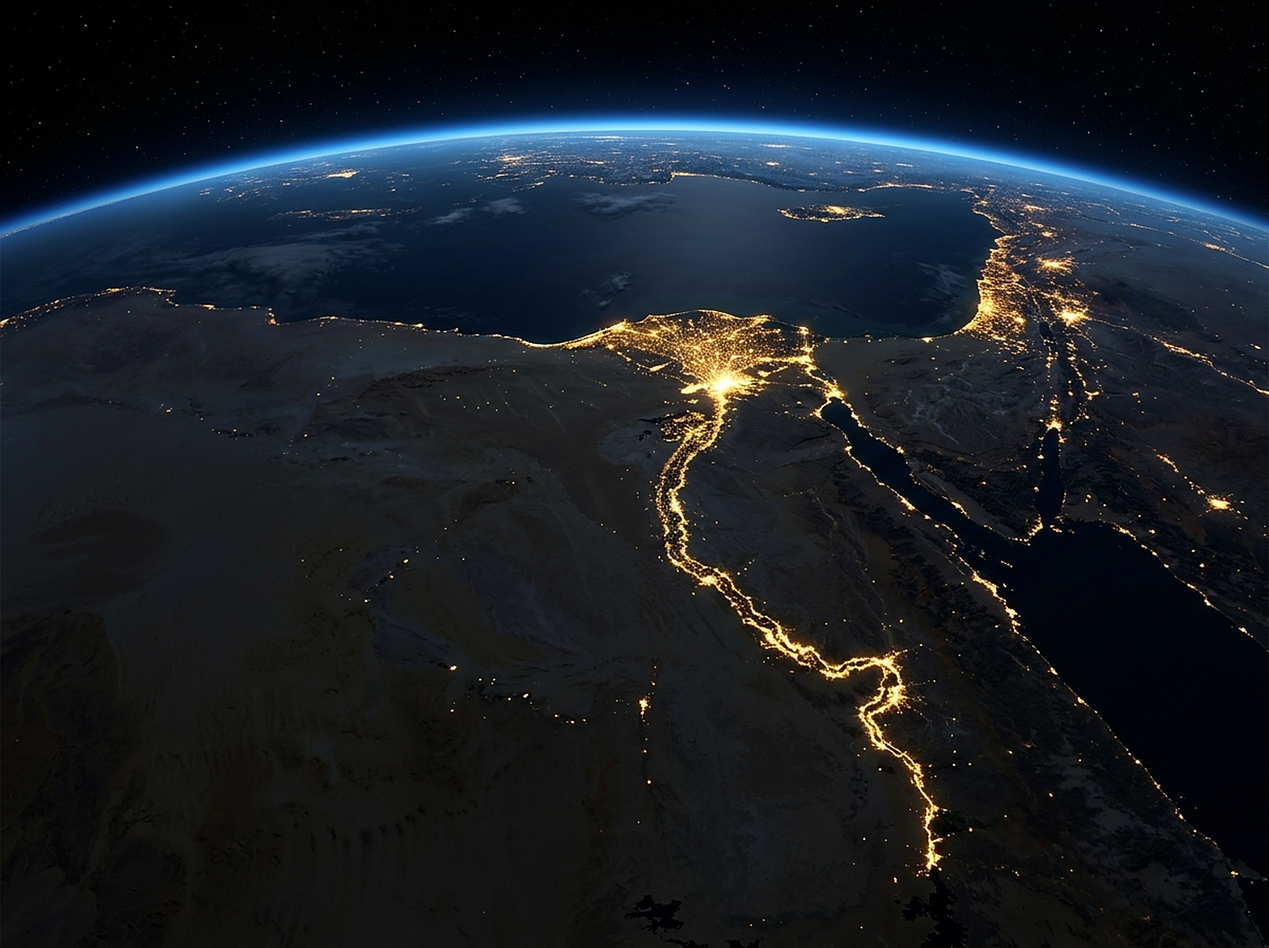
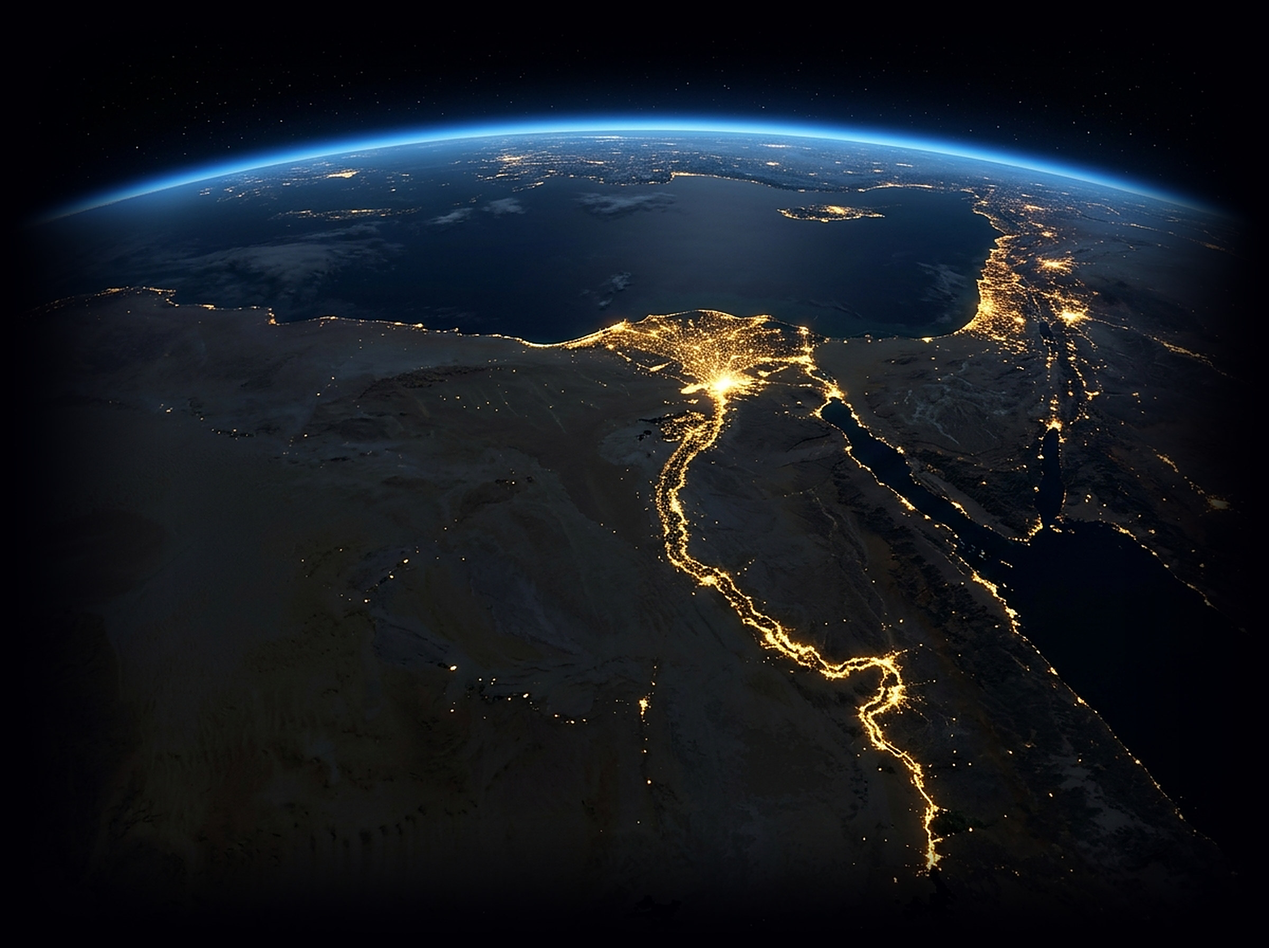
Sfondo: la terra torna intera, con bordi sfumati e zoom fino a 1.0
Con 'cover' l'immagine (1200 px) veniva ritagliata e stirata a schermo pieno: sgranata.
Ora è mostrata intera (contain), bordi sfumati nel nero, scala 0.7 -> 1.0.

diff --git a/components/SpaceScene.tsx b/components/SpaceScene.tsx
@@ -4,7 +4,7 @@ import { useEffect, useRef } from "react";
 
 const layers = [
   { src: "/3-globe.jpg", depthStart: 0, depthEnd: 0.35, scaleStart: 0.55, scaleEnd: 1.5, opacityStart: 1, opacityEnd: 0 },
-  { src: "/4-earth.jpg", depthStart: 0.25, depthEnd: 0.65, scaleStart: 1.0, scaleEnd: 1.2, opacityStart: 0, opacityEnd: 0 },
+  { src: "/4-earth.jpg", depthStart: 0.25, depthEnd: 0.65, scaleStart: 0.7, scaleEnd: 1.0, opacityStart: 0, opacityEnd: 0 },
   { src: "/5-pyramids.jpg", depthStart: 0.55, depthEnd: 1.0, scaleStart: 1.0, scaleEnd: 1.12, opacityStart: 0, opacityEnd: 1 },
 ];
 
@@ -178,7 +178,7 @@ export default function SpaceScene() {
             position: "absolute",
             inset: "-5%",
             backgroundImage: `url(${L.src})`,
-            backgroundSize: L.src.includes("globe") ? "contain" : "cover",
+            backgroundSize: (L.src.includes("globe") || L.src.includes("earth")) ? "contain" : "cover",
             backgroundRepeat: "no-repeat",
             backgroundPosition: "center",
             opacity: i === 0 ? 1 : 0,
